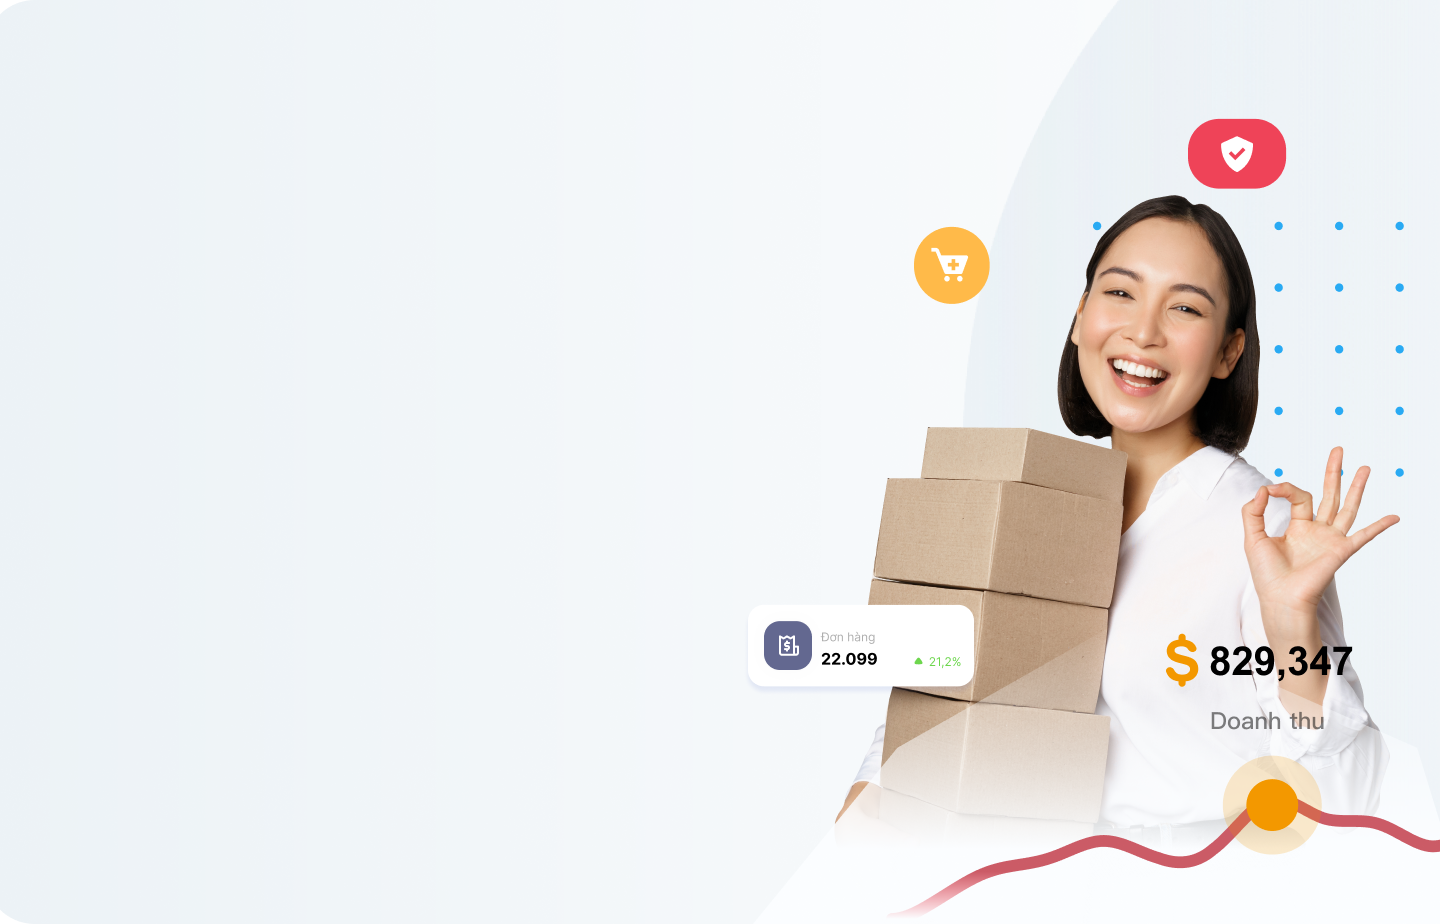
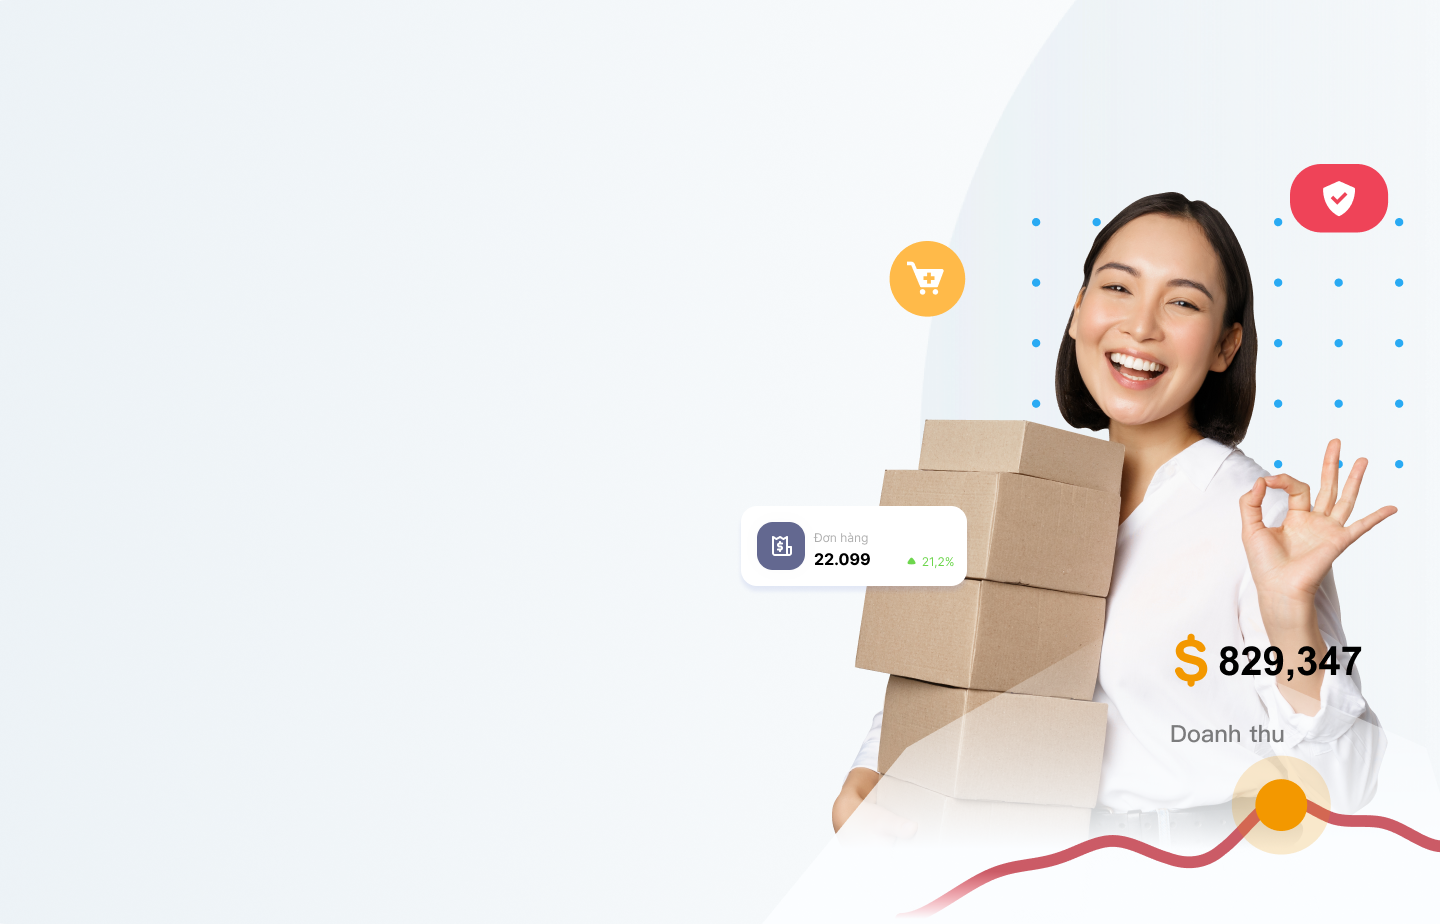
UP

diff --git a/public/home/dist/style.css b/public/home/dist/style.css
@@ -24,7 +24,15 @@ img{
     background-repeat: no-repeat;
     background-position: center center;
     background-size: cover;
-    height: 1090px;
+    height: 100vh;
+}
+.bg-bannerV{
+    background: url('../img/bannerV.png');
+    background-repeat: no-repeat;
+    background-position: center center;
+    background-size: cover;
+    width: 100%;
+    height: 100%;
 }
 .bgncc{
     background: url('../img/bgncc.png');

diff --git a/resources/views/screens/vstore/index.blade.php b/resources/views/screens/vstore/index.blade.php
@@ -27,8 +27,8 @@
     @vite('resources/css/app.css')
 </head>
 <body>
-<div class="bg w-full relative h-auto md:h-[1090px]">
-    <div class=" w-full md:max-w-[1440px] mx-auto flex flex-col justify-between gap-6 md:gap-20 py-10 md:h-screen xl:px-20 px-[20px]">
+<div class="bg w-full relative h-auto md:h-screen">
+    <div class=" w-full md:max-w-[1440px] mx-auto flex flex-col  gap-4 py-6 md:h-screen xl:px-20 px-[20px]">
         <div class="flex justify-between items-center">
             <div class="w-[168px] h-[36px] md:hidden">
                 <a href="./"> <img src="{{asset('home/img/Logo.png')}}" class="w-full object-contain" alt=""></a>
@@ -37,24 +37,92 @@
                 <a href="./"> <img src="{{asset('home/img/Logo.png')}}" class="w-full object-contain" alt=""></a>
             </div>
 
-            <a href="{{route('login_vstore')}}" class="btn-register text-xs md:text-base rounded-xl  hover:bg-[#0E88FF] transition-all duration-200 px-4 py-[6px] md:py-[10px] md:px-10 font-semibold text-[#FFF]  hover:opacity-70">Đăng nhập</a>
+            <a href="{{route('login_vstore')}}" class="border-[1px] border-[#258AFF] text-xs md:text-base rounded-xl  hover:bg-[#0E88FF] hover:text-[#FFF] transition-all duration-200 px-4 py-[6px] md:py-[10px] md:px-10 font-semibold text-[#258AFF]  hover:opacity-70">Đăng nhập</a>
         </div>
-        <div class="flex flex-col justify-center items-center md:items-start w-full md:justify-start gap-5 md:max-w-[650px] text-center md:text-left">
-            <h2 class="font-semibold text-[#414141] md:text-[70px] md:leading-[90px] text-2xl ">"Cổng thương mại điện tử  <strong class="text-[#1e65ff] font-semibold">V-Store"</strong></h2>
+        <div class="flex flex-col justify-center items-center md:items-start w-full md:justify-start lg:max-w-[650px] text-center lg:text-left">
+            <h2 class="font-semibold text-[#414141] md:text-[60px] md:leading-[75px] text-2xl ">"Cổng thương mại điện tử  <strong class="text-[#1e65ff] font-semibold">V-Store"</strong></h2>
             <span class="text-grayRgb text-base md:text-lg font-medium">Hãy đồng hành cùng <strong class="text-[#1e65ff]">20.000+</strong> người kinh doanh và thương hiệu bậc nhất tại Việt Nam đang tin dùng<strong class="text-[#1e65ff]"> V-Store.</strong></span>
         </div>
-        <div class="max-w-[320px] w-full">
+        <div class="bg-bannerV w-full h-[200px] md:h-full md:max-w-[655px] relative flex flex-col justify-end items-end mx-auto lg:mx-0">
+                <div class="absolute top-1/3 lg:-translate-y-[60px] xl:-translate-y-[48px] md:-translate-y-[65px] -translate-y-[32px] left-[40px] md:left-[80px] font-bold text-xl md:text-4xl text-[#FFF]">
+                300.000.000đ
+                </div>
+
+                <div class="flex flex-col gap-1 md:gap-2 mx-auto px-4 pb-6 md:pb-2 xl:pb-8 max-w-[600px]">
+                    <div class="flex items-center md:gap-2">
+                        <div class="w-[13px] md:w-[25px]">
+                            <div class="w-[12px] h-[12px] md:w-[24px] md:h-[24px]">
+                                <svg viewBox="0 0 24 25" fill="none" xmlns="http://www.w3.org/2000/svg">
+                                    <path
+                                        d="M12.0003 18.775L7.85033 21.275C7.667 21.3916 7.47533 21.4416 7.27533 21.4249C7.07533 21.4083 6.90033 21.3416 6.75033 21.225C6.60033 21.1083 6.48366 20.9623 6.40033 20.787C6.317 20.6116 6.30033 20.416 6.35033 20.2L7.45033 15.475L3.77533 12.3C3.60866 12.15 3.50466 11.979 3.46333 11.787C3.422 11.595 3.43433 11.4076 3.50033 11.225C3.567 11.0416 3.667 10.8916 3.80033 10.775C3.93366 10.6583 4.117 10.5833 4.35033 10.55L9.20033 10.125L11.0753 5.67495C11.1587 5.47495 11.288 5.32495 11.4633 5.22495C11.6387 5.12495 11.8177 5.07495 12.0003 5.07495C12.1837 5.07495 12.3627 5.12495 12.5373 5.22495C12.712 5.32495 12.8413 5.47495 12.9253 5.67495L14.8003 10.125L19.6503 10.55C19.8837 10.5833 20.067 10.6583 20.2003 10.775C20.3337 10.8916 20.4337 11.0416 20.5003 11.225C20.567 11.4083 20.5797 11.596 20.5383 11.788C20.497 11.98 20.3927 12.1506 20.2253 12.3L16.5503 15.475L17.6503 20.2C17.7003 20.4166 17.6837 20.6126 17.6003 20.788C17.517 20.9633 17.4003 21.109 17.2503 21.225C17.1003 21.3416 16.9253 21.4083 16.7253 21.4249C16.5253 21.4416 16.3337 21.3916 16.1503 21.275L12.0003 18.775Z"
+                                        fill="#F0B90B"/>
+                                </svg>
+                            </div>
+                        </div>
+                        <span class="text-[8px] md:text-xs font-bold text-[#4A4A4A] xl:text-base line-clamp-2">Sở hữu <span class="text-[#258AFF]"> 1 tài khoản V-Store </span>sử dụng trong <span class="text-[#258AFF]">3 năm.</span></span>
+                    </div>
+                    <div class="flex items-center md:gap-2">
+                    <div class="w-[13px] md:w-[25px]">
+                            <div class="w-[12px] h-[12px] md:w-[24px] md:h-[24px]">
+                                <svg viewBox="0 0 24 25" fill="none" xmlns="http://www.w3.org/2000/svg">
+                                    <path
+                                        d="M12.0003 18.775L7.85033 21.275C7.667 21.3916 7.47533 21.4416 7.27533 21.4249C7.07533 21.4083 6.90033 21.3416 6.75033 21.225C6.60033 21.1083 6.48366 20.9623 6.40033 20.787C6.317 20.6116 6.30033 20.416 6.35033 20.2L7.45033 15.475L3.77533 12.3C3.60866 12.15 3.50466 11.979 3.46333 11.787C3.422 11.595 3.43433 11.4076 3.50033 11.225C3.567 11.0416 3.667 10.8916 3.80033 10.775C3.93366 10.6583 4.117 10.5833 4.35033 10.55L9.20033 10.125L11.0753 5.67495C11.1587 5.47495 11.288 5.32495 11.4633 5.22495C11.6387 5.12495 11.8177 5.07495 12.0003 5.07495C12.1837 5.07495 12.3627 5.12495 12.5373 5.22495C12.712 5.32495 12.8413 5.47495 12.9253 5.67495L14.8003 10.125L19.6503 10.55C19.8837 10.5833 20.067 10.6583 20.2003 10.775C20.3337 10.8916 20.4337 11.0416 20.5003 11.225C20.567 11.4083 20.5797 11.596 20.5383 11.788C20.497 11.98 20.3927 12.1506 20.2253 12.3L16.5503 15.475L17.6503 20.2C17.7003 20.4166 17.6837 20.6126 17.6003 20.788C17.517 20.9633 17.4003 21.109 17.2503 21.225C17.1003 21.3416 16.9253 21.4083 16.7253 21.4249C16.5253 21.4416 16.3337 21.3916 16.1503 21.275L12.0003 18.775Z"
+                                        fill="#F0B90B"/>
+                                </svg>
+                            </div>
+                        </div>
+                        <span class="text-[8px] md:text-xs font-bold text-[#4A4A4A] xl:text-base line-clamp-2">Tặng thêm <span class="text-[#258AFF]">1 tài khoản NCC </strong> sử dụng miễn phí trong<span class="text-[#258AFF]"> 3 năm.</span></span>
+                    </div>
+                    <div class="flex items-center md:gap-2">
+                    <div class="w-[13px] md:w-[25px]">
+                            <div class="w-[12px] h-[12px] md:w-[24px] md:h-[24px]">
+                                <svg viewBox="0 0 24 25" fill="none" xmlns="http://www.w3.org/2000/svg">
+                                    <path
+                                        d="M12.0003 18.775L7.85033 21.275C7.667 21.3916 7.47533 21.4416 7.27533 21.4249C7.07533 21.4083 6.90033 21.3416 6.75033 21.225C6.60033 21.1083 6.48366 20.9623 6.40033 20.787C6.317 20.6116 6.30033 20.416 6.35033 20.2L7.45033 15.475L3.77533 12.3C3.60866 12.15 3.50466 11.979 3.46333 11.787C3.422 11.595 3.43433 11.4076 3.50033 11.225C3.567 11.0416 3.667 10.8916 3.80033 10.775C3.93366 10.6583 4.117 10.5833 4.35033 10.55L9.20033 10.125L11.0753 5.67495C11.1587 5.47495 11.288 5.32495 11.4633 5.22495C11.6387 5.12495 11.8177 5.07495 12.0003 5.07495C12.1837 5.07495 12.3627 5.12495 12.5373 5.22495C12.712 5.32495 12.8413 5.47495 12.9253 5.67495L14.8003 10.125L19.6503 10.55C19.8837 10.5833 20.067 10.6583 20.2003 10.775C20.3337 10.8916 20.4337 11.0416 20.5003 11.225C20.567 11.4083 20.5797 11.596 20.5383 11.788C20.497 11.98 20.3927 12.1506 20.2253 12.3L16.5503 15.475L17.6503 20.2C17.7003 20.4166 17.6837 20.6126 17.6003 20.788C17.517 20.9633 17.4003 21.109 17.2503 21.225C17.1003 21.3416 16.9253 21.4083 16.7253 21.4249C16.5253 21.4416 16.3337 21.3916 16.1503 21.275L12.0003 18.775Z"
+                                        fill="#F0B90B"/>
+                                </svg>
+                            </div>
+                        </div>
+                        <span class="text-[8px] md:text-xs font-bold text-[#4A4A4A] xl:text-base line-clamp-2">Tặng thêm <span class="text-[#258AFF]">10 tài khoản KHO</span> sử dụng miễn phí trong <span class="text-[#258AFF]">3 năm.</span></span>
+                    </div>
+                    <div class="flex items-center md:gap-2">
+                    <div class="w-[13px] md:w-[25px]">
+                            <div class="w-[12px] h-[12px] md:w-[24px] md:h-[24px]">
+                                <svg viewBox="0 0 24 25" fill="none" xmlns="http://www.w3.org/2000/svg">
+                                    <path
+                                        d="M12.0003 18.775L7.85033 21.275C7.667 21.3916 7.47533 21.4416 7.27533 21.4249C7.07533 21.4083 6.90033 21.3416 6.75033 21.225C6.60033 21.1083 6.48366 20.9623 6.40033 20.787C6.317 20.6116 6.30033 20.416 6.35033 20.2L7.45033 15.475L3.77533 12.3C3.60866 12.15 3.50466 11.979 3.46333 11.787C3.422 11.595 3.43433 11.4076 3.50033 11.225C3.567 11.0416 3.667 10.8916 3.80033 10.775C3.93366 10.6583 4.117 10.5833 4.35033 10.55L9.20033 10.125L11.0753 5.67495C11.1587 5.47495 11.288 5.32495 11.4633 5.22495C11.6387 5.12495 11.8177 5.07495 12.0003 5.07495C12.1837 5.07495 12.3627 5.12495 12.5373 5.22495C12.712 5.32495 12.8413 5.47495 12.9253 5.67495L14.8003 10.125L19.6503 10.55C19.8837 10.5833 20.067 10.6583 20.2003 10.775C20.3337 10.8916 20.4337 11.0416 20.5003 11.225C20.567 11.4083 20.5797 11.596 20.5383 11.788C20.497 11.98 20.3927 12.1506 20.2253 12.3L16.5503 15.475L17.6503 20.2C17.7003 20.4166 17.6837 20.6126 17.6003 20.788C17.517 20.9633 17.4003 21.109 17.2503 21.225C17.1003 21.3416 16.9253 21.4083 16.7253 21.4249C16.5253 21.4416 16.3337 21.3916 16.1503 21.275L12.0003 18.775Z"
+                                        fill="#F0B90B"/>
+                                </svg>
+                            </div>
+                        </div>
+                        <span class="text-[8px] md:text-xs font-bold text-[#4A4A4A] xl:text-base line-clamp-2">Được cấp <span class="text-[#258AFF]">1 Team Cộng đồng và 1 mã ID Boss Team.</span></span>
+                    </div>
+                    <div class="flex items-center md:gap-2">
+                    <div class="w-[13px] md:w-[25px]">
+                            <div class="w-[12px] h-[12px] md:w-[24px] md:h-[24px]">
+                                <svg viewBox="0 0 24 25" fill="none" xmlns="http://www.w3.org/2000/svg">
+                                    <path
+                                        d="M12.0003 18.775L7.85033 21.275C7.667 21.3916 7.47533 21.4416 7.27533 21.4249C7.07533 21.4083 6.90033 21.3416 6.75033 21.225C6.60033 21.1083 6.48366 20.9623 6.40033 20.787C6.317 20.6116 6.30033 20.416 6.35033 20.2L7.45033 15.475L3.77533 12.3C3.60866 12.15 3.50466 11.979 3.46333 11.787C3.422 11.595 3.43433 11.4076 3.50033 11.225C3.567 11.0416 3.667 10.8916 3.80033 10.775C3.93366 10.6583 4.117 10.5833 4.35033 10.55L9.20033 10.125L11.0753 5.67495C11.1587 5.47495 11.288 5.32495 11.4633 5.22495C11.6387 5.12495 11.8177 5.07495 12.0003 5.07495C12.1837 5.07495 12.3627 5.12495 12.5373 5.22495C12.712 5.32495 12.8413 5.47495 12.9253 5.67495L14.8003 10.125L19.6503 10.55C19.8837 10.5833 20.067 10.6583 20.2003 10.775C20.3337 10.8916 20.4337 11.0416 20.5003 11.225C20.567 11.4083 20.5797 11.596 20.5383 11.788C20.497 11.98 20.3927 12.1506 20.2253 12.3L16.5503 15.475L17.6503 20.2C17.7003 20.4166 17.6837 20.6126 17.6003 20.788C17.517 20.9633 17.4003 21.109 17.2503 21.225C17.1003 21.3416 16.9253 21.4083 16.7253 21.4249C16.5253 21.4416 16.3337 21.3916 16.1503 21.275L12.0003 18.775Z"
+                                        fill="#F0B90B"/>
+                                </svg>
+                            </div>
+                        </div>
+                        <span class="text-[8px] md:text-xs font-bold text-[#4A4A4A] xl:text-base line-clamp-2">Thông báo đến <span class="text-[#258AFF]">10.000 tài khoản người dùng</span> và <span class="text-[#258AFF]">50 V-Shop</span> biết đến
+10 sản phẩm, dịch vụ đầu tiên trong vòng 6 tháng.</span>
+                    </div>
+                </div>
+      
+            </div>
+    <div class="max-w-[320px] w-full mx-auto lg:mx-0">
             <button class="btn-register text-center w-full rounded-[10px] text-[#FFF] py-4 uppercase transition-all duration-200 hover:opacity-70 "><a class="block w-full h-full"  href="{{route('register_vstore')}}">Đăng ký ngay</a></button>
         </div>
-    </div>
-
 </div>
 <div class="grid grid-cols-1 lg:grid-cols-2 gap-16  w-full md:max-w-[1440px] mx-auto md:p-16 my-8 p-4">
     <div class="w-full h-full order-last md:order-first">
         <img src="{{asset('home/img/IMG.png')}}" class="w-full" alt="">
     </div>
     <div class="flex flex-col gap-6 order-first md:order-last text-center md:text-left">
-        <h2 class="font-semibold text-lg sm:text-4xl text-[#1D293F]">Cổng thương mại điện tử <br><strong class="text-[#1e65ff] font-semibold">V-Store </strong> là gì?</h2>
+        <h2 class="font-semibold text-lg sm:text-3xl text-[#1D293F]">Cổng thương mại điện tử <br><strong class="text-[#1e65ff] font-semibold">V-Store </strong> là gì?</h2>
         <span class=" text-[#7C8087] leading-[24px] text-[12px] sm:text-xl ">“Cổng thương mại điện tử V-Store” là cổng tiếp nhận đăng kí, kiểm duyệt và đàm phán chiết khấu các sản phẩm, dịch vụ từ nhà cung cấp. Nhà cung cấp muốn kinh doanh sản phẩm của mình trên nền tảng mạng xã hội VDone thì bắt buộc phải khai báo sản phẩm của của mình thông qua các cổng V-Store. Mỗi một V-Store sẽ phụ trách các lĩnh vực sản phẩm khác nhau. Sản phẩm được cổng V-Store kiểm duyệt sẽ được cấp một mã sản phẩm và có thể lưu thông tin trên nền tảng VDone. </span>
     </div>
 </div>

diff --git a/resources/views/screens/landingpage.blade.php b/resources/views/screens/landingpage.blade.php
@@ -68,7 +68,7 @@
                 <li><a href="{{asset('#gioi_thieu')}}" class="text-lg text-[#2C2C37] ">Giới thiệu</a></li>
                 <li><a href="{{asset('#sale')}}" class="text-lg text-[#2C2C37] ">Sales</a></li>
                 <li><a href="{{asset('#noi_bat')}}" class="text-lg text-[#2C2C37] ">Sản phẩm nổi bật</a></li>
-                <li><a href="{{asset('#nha_cung_cap')}}" class="text-lg text-[#2C2C37] ">Vstore</a></li>
+                <li><a href="{{asset('#nha_cung_cap')}}" class="text-lg text-[#2C2C37] ">V-Store</a></li>
             </ul>
     </div>
     <div class="max-w-[1320px] flex justify-between items-center px-[15px] xl:px-0 lg:hidden relative">
@@ -82,7 +82,7 @@
                 <li><a href="#" class="text-lg text-[#2C2C37] ">Giới thiệu</a></li>
                 <li><a href="#" class="text-lg text-[#2C2C37] ">Sales</a></li>
                 <li><a href="#" class="text-lg text-[#2C2C37] ">Sản phẩm nổi bật</a></li>
-                <li><a href="#" class="text-lg text-[#2C2C37] ">Nhà cung cấp</a></li>
+                <li><a href="#" class="text-lg text-[#2C2C37] ">V-Store</a></li>
         </ul>
         <div class="w-[24px] btn-menu">
                 <svg viewBox="0 0 24 25" fill="none" xmlns="http://www.w3.org/2000/svg">
